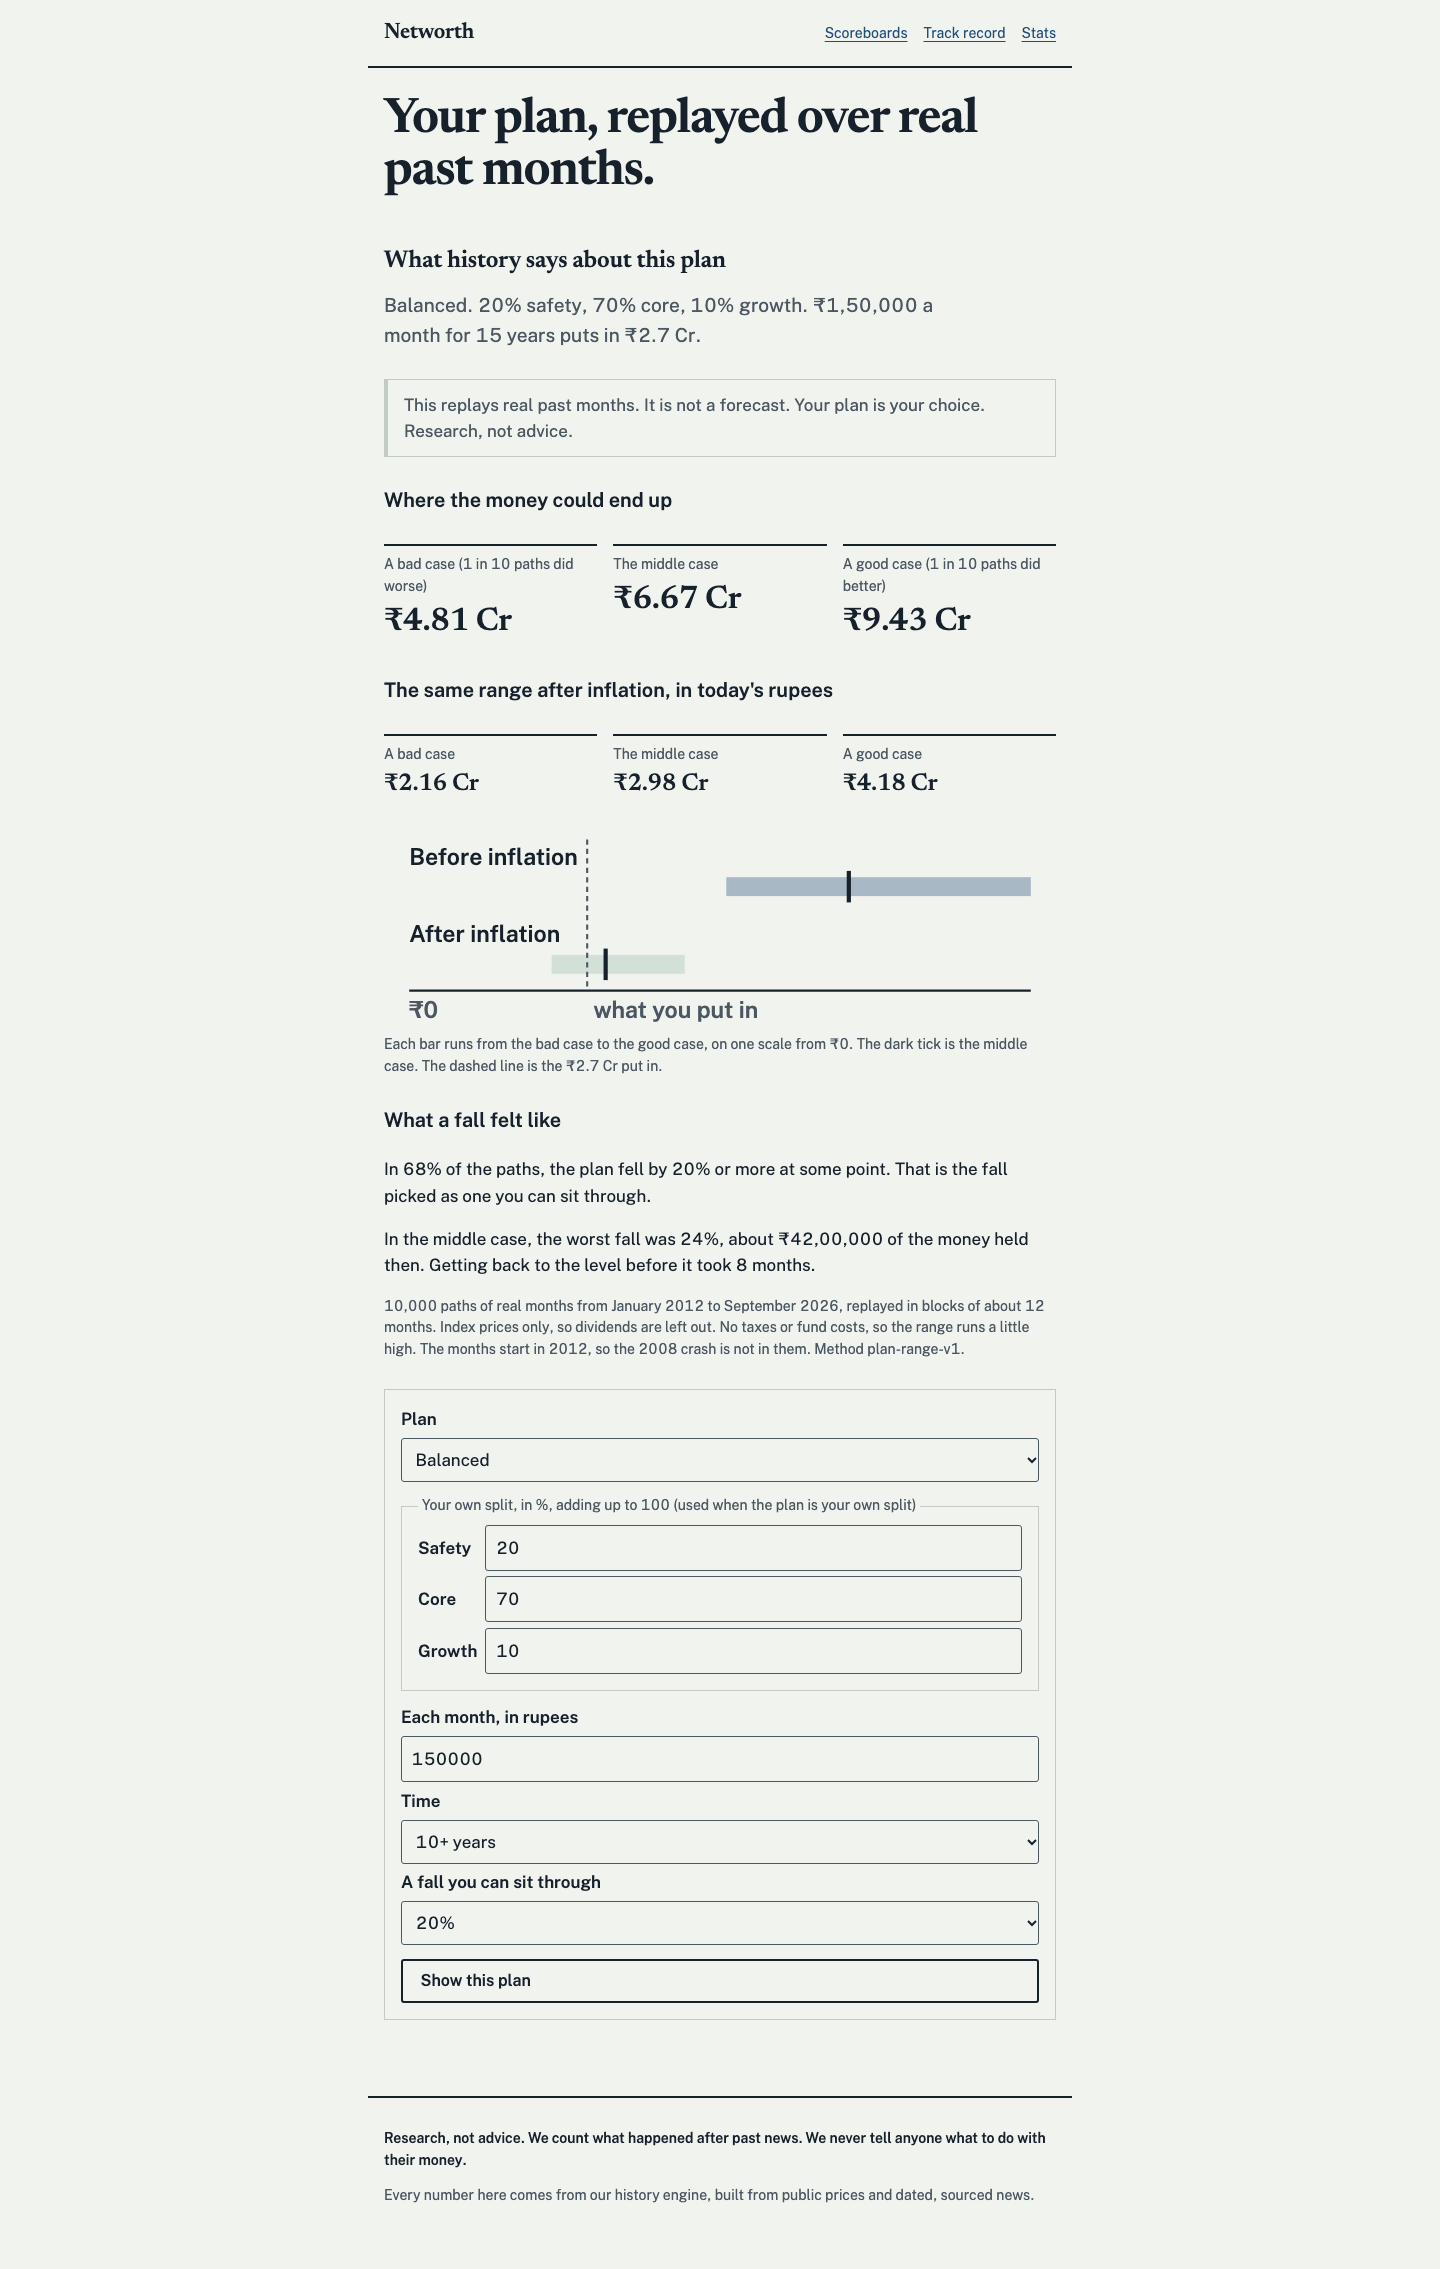
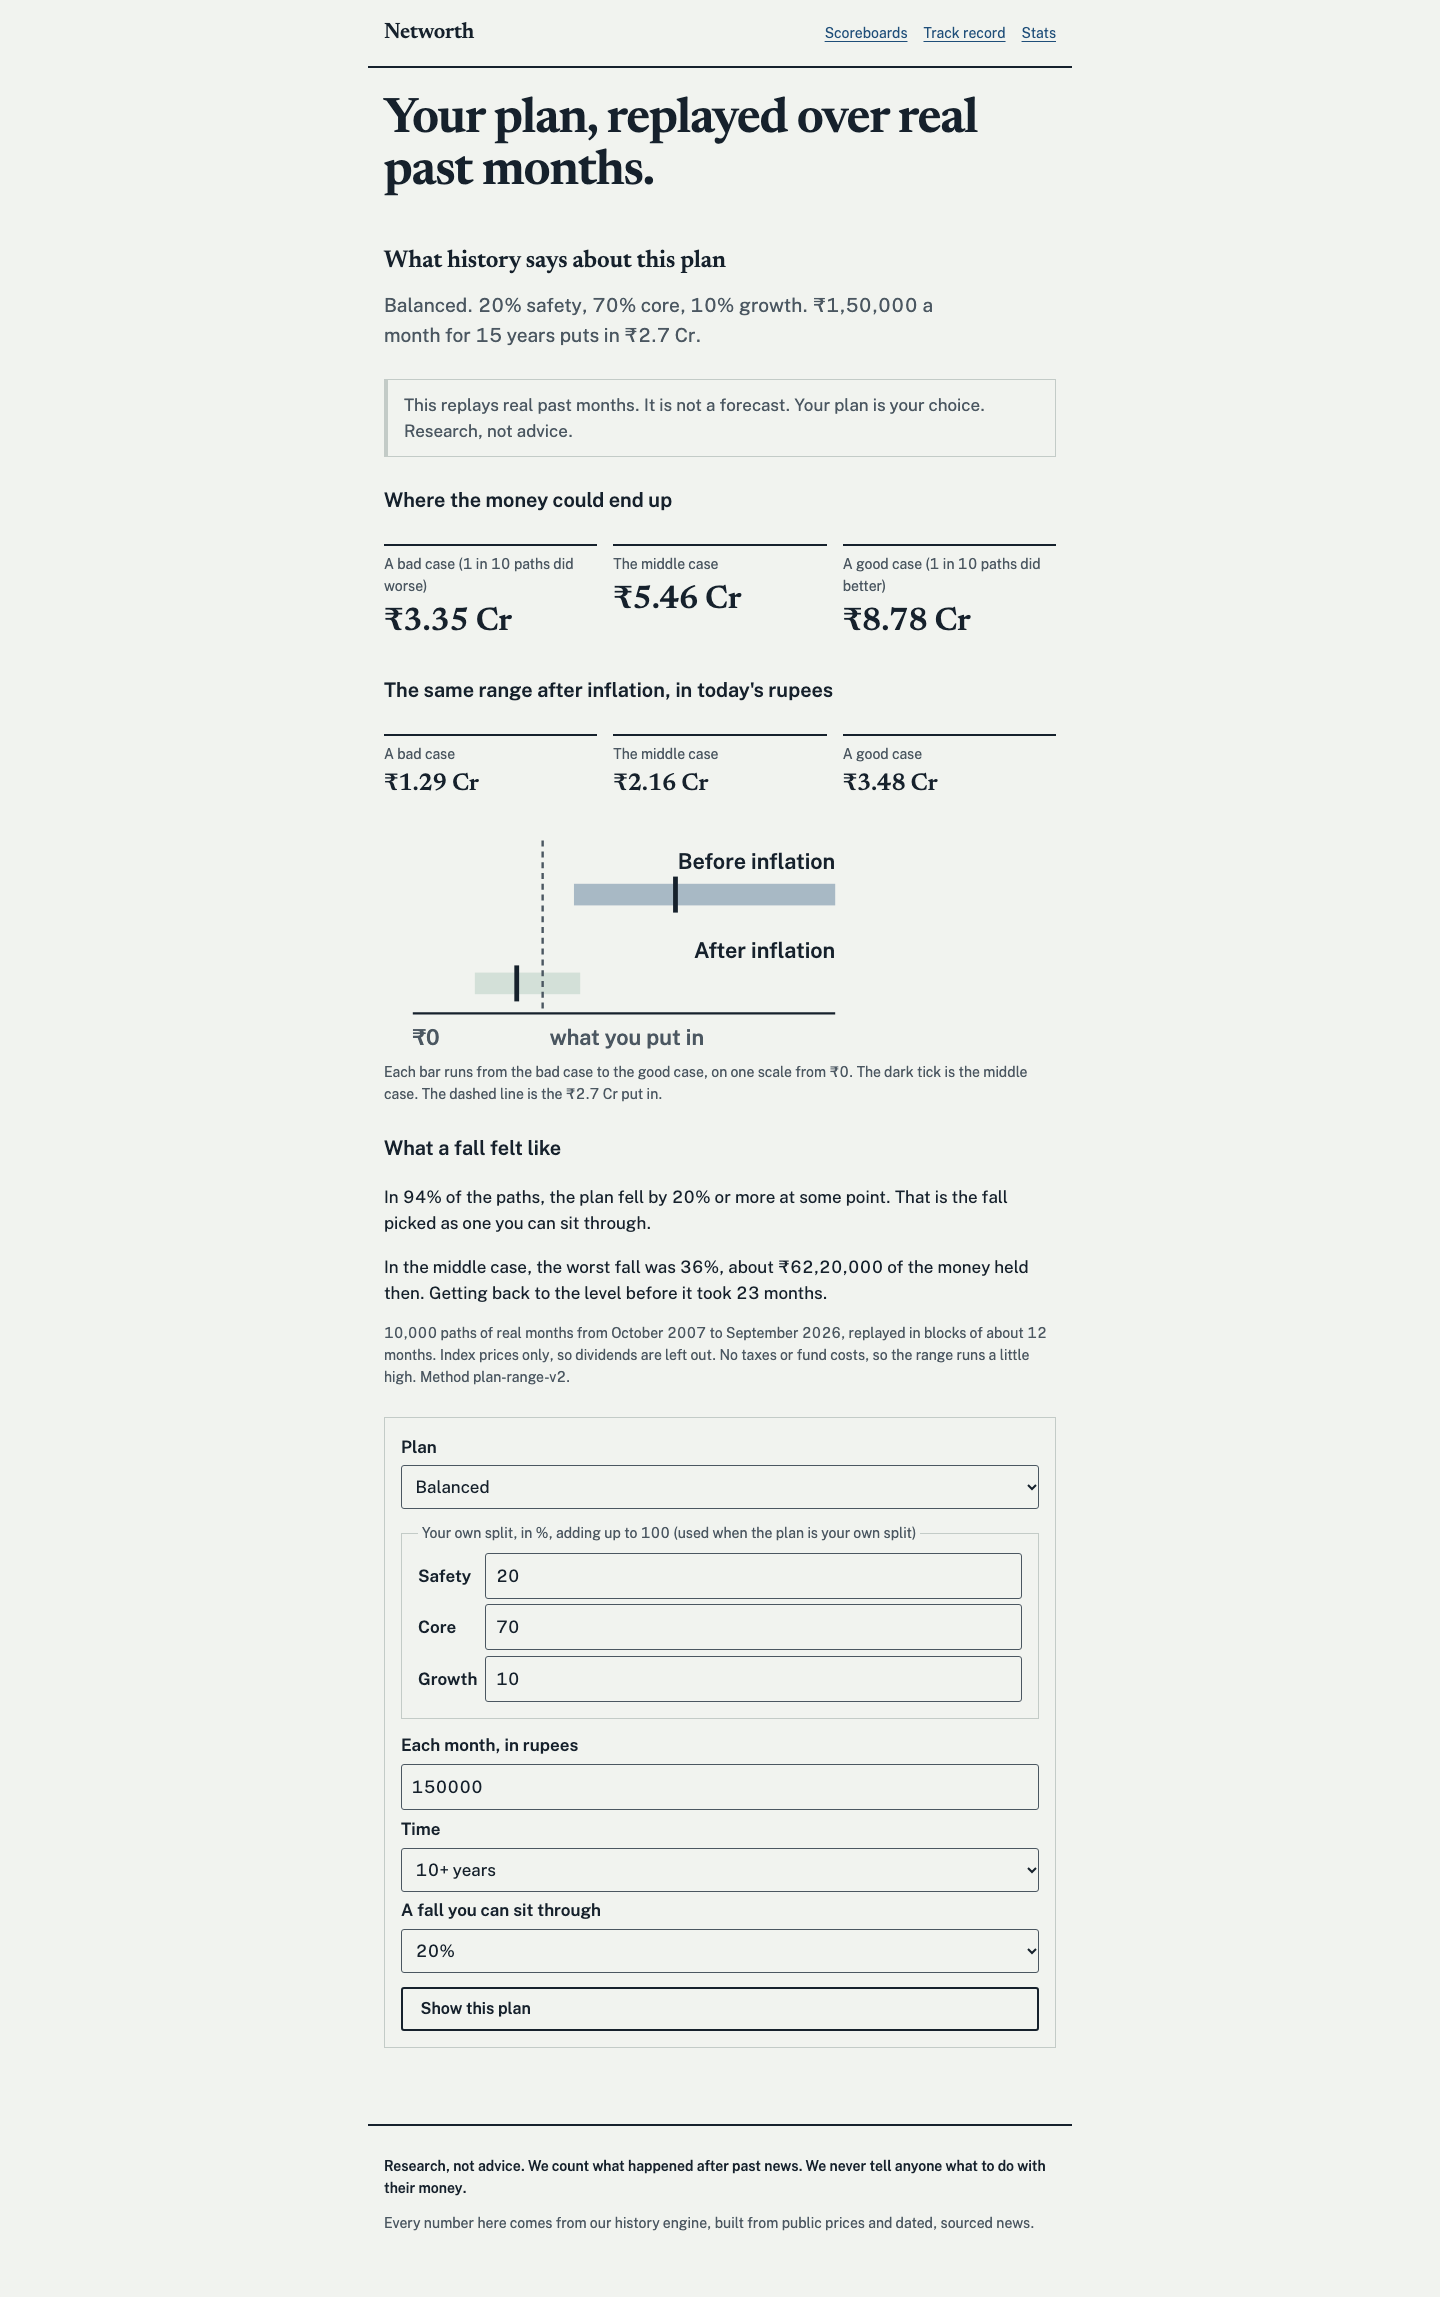
fix: keep range bar labels 12px or more and clear of the invested line

diff --git a/networth/web/templates/_plan_range.html b/networth/web/templates/_plan_range.html
@@ -23,7 +23,7 @@
     <svg viewBox="0 0 {{ pr.bar.width }} {{ pr.bar.height }}" role="img" aria-labelledby="range-bar-title">
       <title id="range-bar-title">Before inflation, from {{ pr.nominal.p10 }} to {{ pr.nominal.p90 }}, middle {{ pr.nominal.median }}. After inflation, from {{ pr.real.p10 }} to {{ pr.real.p90 }}, middle {{ pr.real.median }}. Put in: {{ pr.invested }}.</title>
       {% for row in pr.bar.rows %}
-      <text class="range-bar__name" x="{{ pr.bar.zero_x }}" y="{{ row.label_y }}">{{ row.name }}</text>
+      <text class="range-bar__name" x="{{ pr.bar.name_x }}" y="{{ row.label_y }}" text-anchor="{{ pr.bar.name_anchor }}">{{ row.name }}</text>
       <rect class="range-bar__band range-bar__band--{{ loop.index }}" x="{{ row.x }}" y="{{ row.y }}" width="{{ row.w }}" height="{{ row.h }}"></rect>
       <line class="range-bar__median" x1="{{ row.median_x }}" x2="{{ row.median_x }}" y1="{{ row.y - 6 }}" y2="{{ row.y + row.h + 6 }}"></line>
       {% endfor %}

diff --git a/tests/test_sim_web.py b/tests/test_sim_web.py
@@ -16,6 +16,7 @@ from networth import sim
 from networth.app.services import Services
 from networth.app.settings import Settings
 from networth.sim.data import Table
+from networth.web import plan_view
 from networth.web.routes import router, settings, sim_table
 from tests.test_links import SECRET, page_path
 from tests.test_onboarding import Chat, onboard
@@ -148,3 +149,20 @@ def test_the_user_page_still_works_without_the_table(chat: Chat) -> None:
     response = app_with(None, chat.store.path.parent).get(page_path(chat.store))
     assert response.status_code == 200
     assert "What history says about this plan" not in response.text
+
+
+def _range_with(invested: int, p10: int, p90: int) -> sim.PlanRange:
+    return sim.PlanRange(
+        targets_pct=(20, 70, 10), monthly_amount=1, years=1, fall_limit_pct=20, paths=1,
+        mean_block_months=12, invested=invested, nominal_p10=p10, nominal_median=p10,
+        nominal_p90=p90, real_p10=p10, real_median=p10, real_p90=p90, hit_limit_pct=0,
+        worst_fall_pct=0, worst_fall_rupees=0, recovery_months=0,
+        window_start=dt.date(2007, 10, 1), window_end=dt.date(2026, 9, 1), method_version="t",
+    )  # fmt: skip
+
+
+@pytest.mark.parametrize(("invested", "p10", "p90"), [(100, 300, 900), (800, 100, 900)])
+def test_bar_row_names_sit_away_from_the_invested_line(invested, p10, p90) -> None:
+    bar = plan_view.bar_geometry(_range_with(invested, p10, p90))
+    names_on_right = bar["name_anchor"] == "end"
+    assert names_on_right == (bar["invested_x"] < bar["width"] / 2)

diff --git a/networth/web/plan_view.py b/networth/web/plan_view.py
@@ -62,6 +62,9 @@ def bar_geometry(r: PlanRange) -> dict:
         "invested_label_x": round(invested_x + (6 if left_half else -6), 1),
         "invested_anchor": "start" if left_half else "end",
         "invested_label": INVESTED_LABEL,
+        # Row names sit on the side away from the invested line so it never crosses them.
+        "name_x": BAR_WIDTH - BAR_PAD if left_half else BAR_PAD,
+        "name_anchor": "end" if left_half else "start",
         "zero_label": rupees(0),
     }
 

diff --git a/.claude/CHANGELOG.md b/.claude/CHANGELOG.md
@@ -291,3 +291,6 @@
 
 ## 2026-10-25 — Phase 6 method v2
 - Method v2 recorded before any v2 run: OECD India CPI (INDCPIALLMINMEI) before 2012-01 and OECD short rate (INDLOCOSTORSTM) before 2011-11, so the window can reach 2007-10 and hold the 2008 crash. Code splices them; range-bar labels resized for 12px+ at 320px.
+
+## 2026-10-25 — Range bar labels
+- Range bar viewBox 400 wide, labels 18 units, SVG capped at 480px: smallest label renders 13px at 320px. Row names move to the side away from the invested line; test added. Shots retaken on the v2 table.
